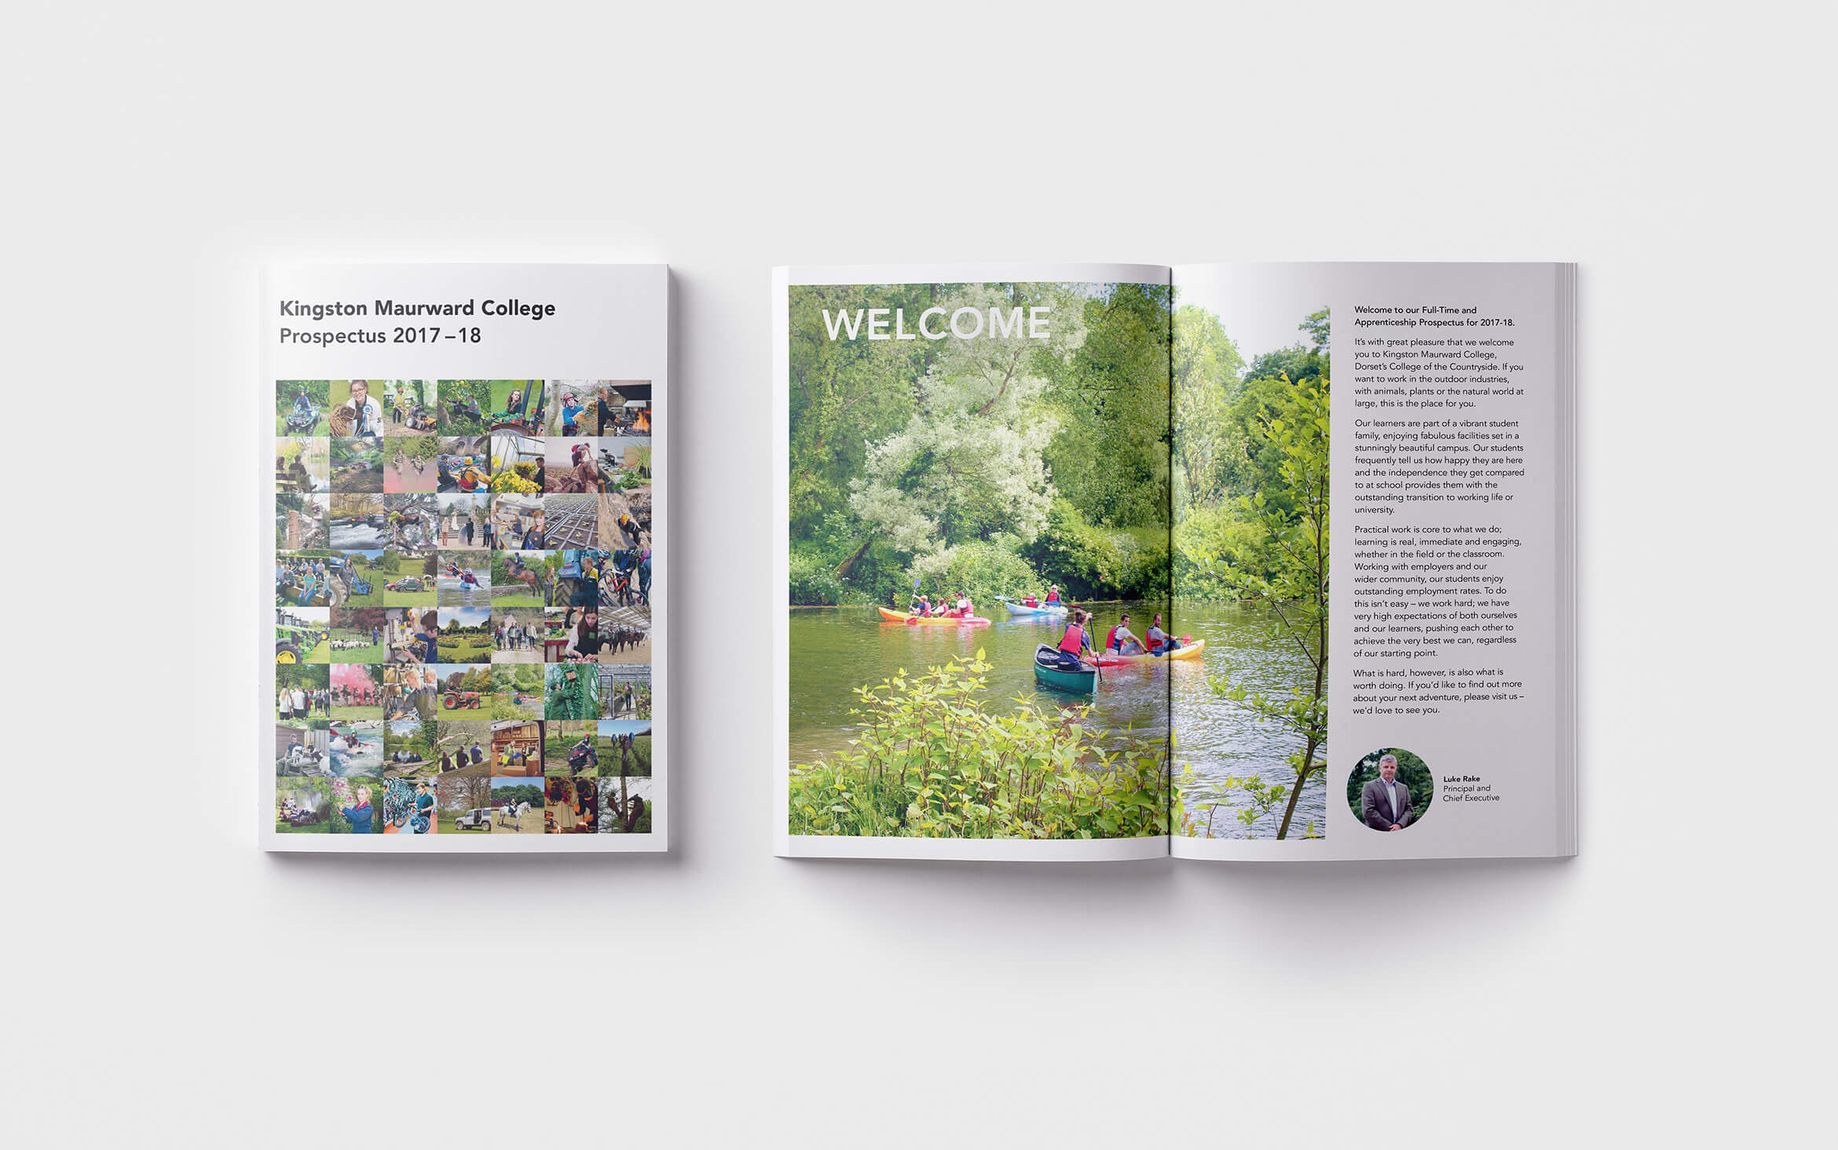
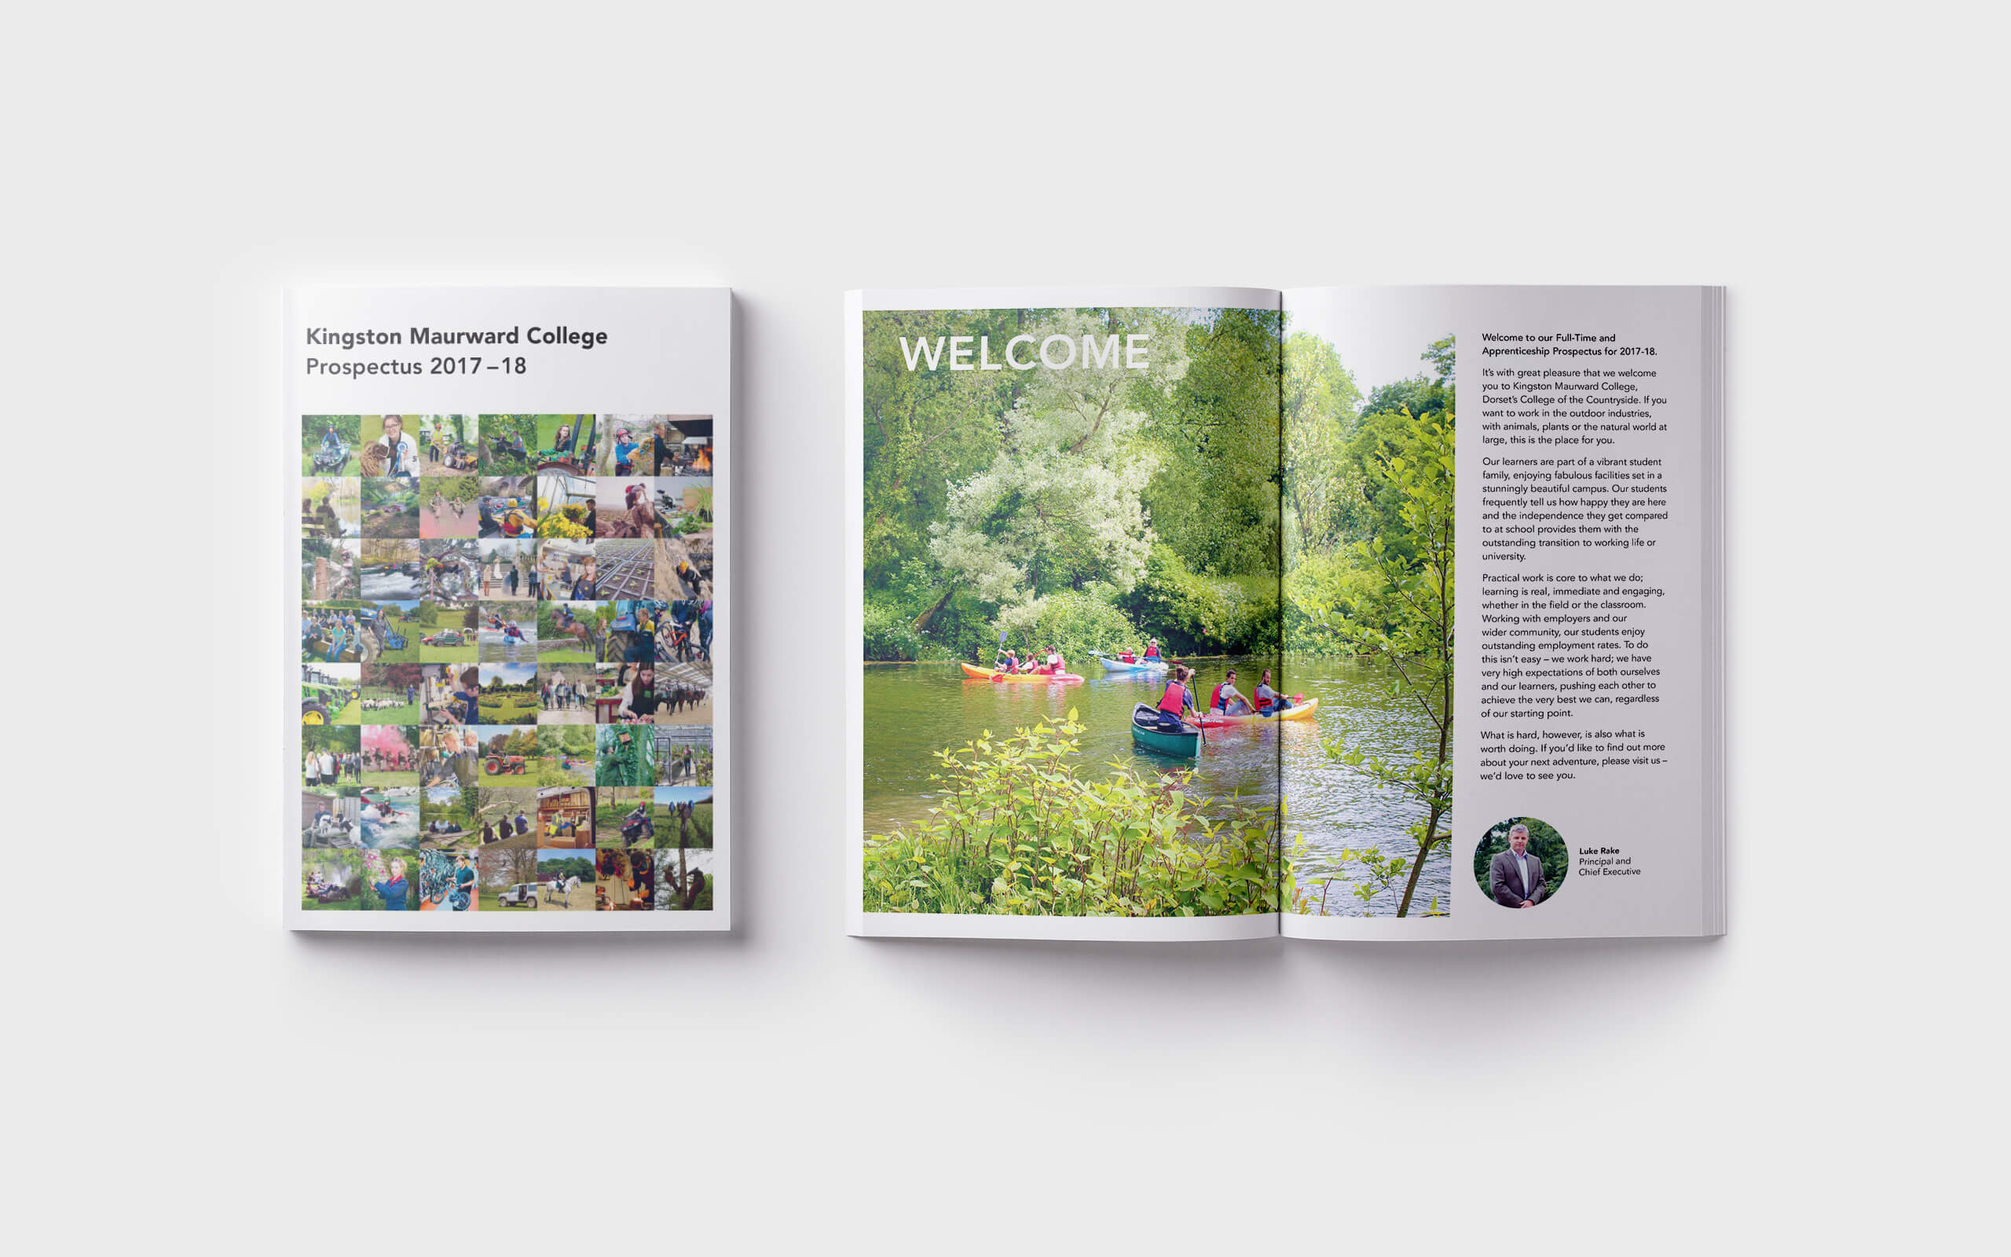
Added kmc webp images to test new size and format

Changed region(s): [[0.4368, 0.2459, 0.8423, 0.7377], [0.156, 0.3074, 0.3744, 0.7377], [0.156, 0.2459, 0.312, 0.3074]]

diff --git a/css/application.css b/css/application.css
@@ -1,1 +1,1 @@
-*:where(:not(html,iframe,canvas,img,svg,video,audio):not(svg *,symbol *)){all:unset;display:revert}*,*::before,*::after{box-sizing:border-box}a,button{cursor:revert}img{max-inline-size:100%;max-block-size:100%}table{border-collapse:collapse}input,textarea{-webkit-user-select:auto}textarea{white-space:revert}meter{-webkit-appearance:revert;-moz-appearance:revert;appearance:revert}pre{all:revert}::-moz-placeholder{color:unset}:-ms-input-placeholder{color:unset}::placeholder{color:unset}:where([hidden]){display:none}:where([contenteditable]:not([contenteditable=false])){-moz-user-modify:read-write;-webkit-user-modify:read-write;overflow-wrap:break-word;-webkit-line-break:after-white-space;-webkit-user-select:auto}:where([draggable=true]){-webkit-user-drag:element}:where(dialog:modal){all:revert}*{box-sizing:border-box;margin:0;padding:0}img{max-width:100%;display:block}body{background:var(--color-back)}html{background:var(--color-bright)}html{font-size:16px}body{font-family:"Inter",sans-serif;color:var(--color-front)}* ::-moz-selection{background:var(--color-bright)}* ::selection{background:var(--color-bright)}p{font-size:1rem;line-height:160%;font-weight:400;font-size:calc(1rem + .175vw);margin-bottom:1rem}.p0,.p0 p{font-size:.85rem;line-height:160%;font-weight:400;font-size:calc(.85rem + .25vw)}.p1,.p1 p{font-size:1.25rem;line-height:160%;font-weight:400;font-size:calc(1.25rem + .25vw)}.p2,.p2 p{font-size:1.5rem;line-height:150%;font-weight:400;font-size:calc(1.5rem + .25vw)}h1,.h1{font-size:7rem;line-height:110%;font-weight:700;font-size:calc(2rem + 6vw);letter-spacing:-0.02em;margin-bottom:2rem}@media(min-width: 40rem){h1,.h1{margin-bottom:2.5rem}}@media(min-width: 60rem){h1,.h1{margin-bottom:3rem}}@media(min-width: 90rem){h1,.h1{margin-bottom:4rem}}h2,.h2{font-size:5rem;line-height:110%;font-weight:700;font-size:calc(1.5rem + 4.5vw);letter-spacing:-0.01em;margin-bottom:1.5rem}@media(min-width: 40rem){h2,.h2{margin-bottom:2rem}}@media(min-width: 60rem){h2,.h2{margin-bottom:2.5rem}}@media(min-width: 90rem){h2,.h2{margin-bottom:3rem}}h3,.h3{font-size:3rem;line-height:110%;font-weight:700;font-size:calc(1.5rem + 2vw);letter-spacing:-0.01em;margin-bottom:3rem}.uppercase,.uppercase p{text-transform:uppercase}.bold,.bold p{font-weight:700}.semibold,.semibold p{font-weight:600}ul{margin-left:18px}a{text-decoration:none;position:relative}a::before{transform-origin:100% 50%;transform:scale3d(0, 1, 1);transition:transform .3s;position:absolute;width:100%;height:.2rem;border-radius:4px;background:var(--color-front);top:100%;left:0;pointer-events:none;content:""}a:hover:before{transform-origin:0% 50%;transform:scale3d(1, 1, 1)}a{color:var(--color-front)}a:hover{color:var(--color-front2);text-decoration:none}a:active{background-color:var(--color-bright)}.forward::after{content:" →"}.forward::after:hover{text-decoration:none}section,footer{margin-top:6rem}@media(min-width: 40rem){section,footer{margin-top:8rem}}@media(min-width: 60rem){section,footer{margin-top:10rem}}@media(min-width: 90rem){section,footer{margin-top:12rem}}.margin{margin:0 1.25rem}.nomargin{margin:0}@media(min-width: 40rem){.nomargin,.margin{margin:0 3rem}}@media(min-width: 60rem){.nomargin,.margin{margin:0 4.5rem}}@media(min-width: 90rem){.nomargin,.margin{margin:0 5rem;max-width:105rem}}.grid{display:grid;row-gap:1rem;-moz-column-gap:1rem;column-gap:1rem;grid-template-columns:repeat(2, 1fr)}.grid>*{grid-column-start:1;grid-column-end:3}.grid .mobstart0{grid-column-start:1}.grid .mobstart1{grid-column-start:2}.grid .mobend1{grid-column-end:2}.grid .mobend2{grid-column-end:3}@media(min-width: 40rem){.grid{grid-template-columns:repeat(12, 1fr);-moz-column-gap:2rem;column-gap:2rem;row-gap:2rem}.grid>*{grid-column-start:1;grid-column-end:13}.grid .start0{grid-column-start:1}.grid .start1{grid-column-start:2}.grid .start2{grid-column-start:3}.grid .start3{grid-column-start:4}.grid .start4{grid-column-start:5}.grid .start5{grid-column-start:6}.grid .start6{grid-column-start:7}.grid .start7{grid-column-start:8}.grid .start8{grid-column-start:9}.grid .start9{grid-column-start:10}.grid .start10{grid-column-start:11}.grid .start11{grid-column-start:12}.grid .end1{grid-column-end:2}.grid .end2{grid-column-end:3}.grid .end3{grid-column-end:4}.grid .end4{grid-column-end:5}.grid .end5{grid-column-end:6}.grid .end6{grid-column-end:7}.grid .end7{grid-column-end:8}.grid .end8{grid-column-end:9}.grid .end9{grid-column-end:10}.grid .end10{grid-column-end:11}.grid .end11{grid-column-end:12}.grid .end12{grid-column-end:13}}.blob{background:var(--color-bright);border-radius:100%;height:3rem;width:3rem}@media(min-width: 40rem){.blob{height:4rem;width:4rem}}@media(min-width: 60rem){.blob{height:4.5rem;width:4.5rem}}@media(min-width: 90rem){.blob{height:5rem;width:5rem}}header .blob{margin-top:6rem}@media(min-width: 40rem){header .blob{margin-top:8rem}}@media(min-width: 60rem){header .blob{margin-top:10rem}}@media(min-width: 90rem){header .blob{margin-top:12rem}}footer .blob{justify-self:end;align-self:end;margin-bottom:6rem}@media(min-width: 40rem){footer .blob{margin-bottom:8rem}}@media(min-width: 60rem){footer .blob{margin-bottom:10rem}}@media(min-width: 90rem){footer .blob{margin-bottom:12rem}}.experience article{margin-bottom:6rem}.marginbottom{margin-bottom:2rem}@media(min-width: 40rem){.marginbottom{padding-top:.5rem}}.marginbottom>*{margin-bottom:1.5rem}@media(min-width: 40rem){.marginbottom>*{margin-bottom:2rem}}.slider{display:flex;align-items:center;position:relative}.slider .slider_counter{position:absolute;top:2rem;right:2rem;padding:8px 12px;background:rgba(102,102,102,.8);color:#fff;z-index:100;border-radius:100px;font-size:.8rem;font-weight:500}@media(min-width: 40rem){.slider .slider_counter{display:none}}.slider .slider_slides{position:relative;display:flex;align-items:center;overflow-x:scroll;-ms-scroll-snap-type:x mandatory;scroll-snap-type:x mandatory;overscroll-behavior-x:contain;gap:0}@media(min-width: 40rem){.slider .slider_slides{border-radius:.5rem}}.slider .slider_slides picture{scroll-snap-align:start;flex-shrink:0;display:flex;align-items:center;justify-content:center;width:100%;height:80vh}.slider .slider_slides picture img{-o-object-fit:cover;object-fit:cover;width:100%;height:100%}.slider_nav{display:flex;align-items:center;justify-content:space-between;width:100%;position:absolute;top:50%;transform:translateY(-50%);z-index:10;pointer-events:none;visibility:hidden}@media(min-width: 40rem){.slider_nav{visibility:visible}}.slider_nav button{font-family:sans-serif;background:#000;color:#fff;padding:1rem;transition:all .2s ease-in-out;pointer-events:initial}.slider_nav button:hover{background:gray;cursor:pointer}.filter{display:flex;position:relative}.filter::before{content:"";position:absolute;width:100%;height:100%;-o-object-fit:cover;object-fit:cover;mix-blend-mode:multiply;background:var(--color-bright);opacity:.1}.reference div>div{display:flex;flex-direction:column}@media(min-width: 90rem){.reference div>div{flex-direction:row}}.reference div picture{width:5rem;height:5rem;opacity:.9;flex-shrink:0}@media(min-width: 40rem){.reference div picture{width:6rem;height:6rem}}@media(min-width: 60rem){.reference div picture{width:7rem;height:7rem;margin-right:2rem;margin-top:.5rem}}.reference div picture img,.reference div picture::before{border-radius:100px;flex-shrink:0}/*# sourceMappingURL=application.css.map */
+*:where(:not(html,iframe,canvas,img,svg,video,audio):not(svg *,symbol *)){all:unset;display:revert}*,*::before,*::after{box-sizing:border-box}a,button{cursor:revert}img{max-inline-size:100%;max-block-size:100%}table{border-collapse:collapse}input,textarea{-webkit-user-select:auto}textarea{white-space:revert}meter{-webkit-appearance:revert;-moz-appearance:revert;appearance:revert}pre{all:revert}::-moz-placeholder{color:unset}:-ms-input-placeholder{color:unset}::placeholder{color:unset}:where([hidden]){display:none}:where([contenteditable]:not([contenteditable=false])){-moz-user-modify:read-write;-webkit-user-modify:read-write;overflow-wrap:break-word;-webkit-line-break:after-white-space;-webkit-user-select:auto}:where([draggable=true]){-webkit-user-drag:element}:where(dialog:modal){all:revert}*{box-sizing:border-box;margin:0;padding:0}img{max-width:100%;display:block}body{background:var(--color-back)}html{background:var(--color-bright)}html{font-size:16px}body{font-family:"Inter",sans-serif;color:var(--color-front)}* ::-moz-selection{background:var(--color-bright)}* ::selection{background:var(--color-bright)}p{font-size:1rem;line-height:160%;font-weight:400;font-size:calc(1rem + .175vw);margin-bottom:1rem}.p0,.p0 p{font-size:.85rem;line-height:160%;font-weight:400;font-size:calc(.85rem + .25vw)}.p1,.p1 p{font-size:1.25rem;line-height:160%;font-weight:400;font-size:calc(1.25rem + .25vw)}.p2,.p2 p{font-size:1.5rem;line-height:150%;font-weight:400;font-size:calc(1.5rem + .25vw)}h1,.h1{font-size:7rem;line-height:110%;font-weight:700;font-size:calc(2rem + 6vw);letter-spacing:-0.02em;margin-bottom:2rem}@media(min-width: 40rem){h1,.h1{margin-bottom:2.5rem}}@media(min-width: 60rem){h1,.h1{margin-bottom:3rem}}@media(min-width: 90rem){h1,.h1{margin-bottom:4rem}}h2,.h2{font-size:5rem;line-height:110%;font-weight:700;font-size:calc(1.5rem + 4.5vw);letter-spacing:-0.01em;margin-bottom:1.5rem}@media(min-width: 40rem){h2,.h2{margin-bottom:2rem}}@media(min-width: 60rem){h2,.h2{margin-bottom:2.5rem}}@media(min-width: 90rem){h2,.h2{margin-bottom:3rem}}h3,.h3{font-size:3rem;line-height:110%;font-weight:700;font-size:calc(1.5rem + 2vw);letter-spacing:-0.01em;margin-bottom:3rem}.uppercase,.uppercase p{text-transform:uppercase}.bold,.bold p{font-weight:700}.semibold,.semibold p{font-weight:600}ul{margin-left:18px}a{text-decoration:none;position:relative}a::before{transform-origin:100% 50%;transform:scale3d(0, 1, 1);transition:transform .3s;position:absolute;width:100%;height:.2rem;border-radius:4px;background:var(--color-front);top:100%;left:0;pointer-events:none;content:""}a:hover:before{transform-origin:0% 50%;transform:scale3d(1, 1, 1)}a{color:var(--color-front)}a:hover{color:var(--color-front2);text-decoration:none}a:active{background-color:var(--color-bright)}.forward::after{content:" →"}.forward::after:hover{text-decoration:none}section,footer{margin-top:6rem}@media(min-width: 40rem){section,footer{margin-top:8rem}}@media(min-width: 60rem){section,footer{margin-top:10rem}}@media(min-width: 90rem){section,footer{margin-top:12rem}}.margin{margin:0 1.25rem}.nomargin{margin:0}@media(min-width: 40rem){.nomargin,.margin{margin:0 3rem}}@media(min-width: 60rem){.nomargin,.margin{margin:0 4.5rem}}@media(min-width: 90rem){.nomargin,.margin{margin:0 5rem;max-width:105rem}}.grid{display:grid;row-gap:1rem;-moz-column-gap:1rem;column-gap:1rem;grid-template-columns:repeat(2, 1fr)}.grid>*{grid-column-start:1;grid-column-end:3}.grid .mobstart0{grid-column-start:1}.grid .mobstart1{grid-column-start:2}.grid .mobend1{grid-column-end:2}.grid .mobend2{grid-column-end:3}@media(min-width: 40rem){.grid{grid-template-columns:repeat(12, 1fr);-moz-column-gap:2rem;column-gap:2rem;row-gap:2rem}.grid>*{grid-column-start:1;grid-column-end:13}.grid .start0{grid-column-start:1}.grid .start1{grid-column-start:2}.grid .start2{grid-column-start:3}.grid .start3{grid-column-start:4}.grid .start4{grid-column-start:5}.grid .start5{grid-column-start:6}.grid .start6{grid-column-start:7}.grid .start7{grid-column-start:8}.grid .start8{grid-column-start:9}.grid .start9{grid-column-start:10}.grid .start10{grid-column-start:11}.grid .start11{grid-column-start:12}.grid .end1{grid-column-end:2}.grid .end2{grid-column-end:3}.grid .end3{grid-column-end:4}.grid .end4{grid-column-end:5}.grid .end5{grid-column-end:6}.grid .end6{grid-column-end:7}.grid .end7{grid-column-end:8}.grid .end8{grid-column-end:9}.grid .end9{grid-column-end:10}.grid .end10{grid-column-end:11}.grid .end11{grid-column-end:12}.grid .end12{grid-column-end:13}}.blob{background:var(--color-bright);border-radius:100%;height:3rem;width:3rem}@media(min-width: 40rem){.blob{height:4rem;width:4rem}}@media(min-width: 60rem){.blob{height:4.5rem;width:4.5rem}}@media(min-width: 90rem){.blob{height:5rem;width:5rem}}header .blob{margin-top:6rem}@media(min-width: 40rem){header .blob{margin-top:8rem}}@media(min-width: 60rem){header .blob{margin-top:10rem}}@media(min-width: 90rem){header .blob{margin-top:12rem}}footer .blob{justify-self:end;align-self:end;margin-bottom:6rem}@media(min-width: 40rem){footer .blob{margin-bottom:8rem}}@media(min-width: 60rem){footer .blob{margin-bottom:10rem}}@media(min-width: 90rem){footer .blob{margin-bottom:12rem}}.experience article{margin-bottom:6rem}.marginbottom{margin-bottom:2rem}@media(min-width: 40rem){.marginbottom{padding-top:.5rem}}.marginbottom>*{margin-bottom:1.5rem}@media(min-width: 40rem){.marginbottom>*{margin-bottom:2rem}}.slider{display:flex;align-items:center;position:relative}.slider .slider_counter{position:absolute;top:2rem;right:2rem;padding:8px 12px;background:rgba(102,102,102,.8);color:#fff;z-index:100;border-radius:100px;font-size:.8rem;font-weight:500}@media(min-width: 40rem){.slider .slider_counter{display:none}}.slider .slider_slides{position:relative;display:flex;align-items:center;overflow-x:scroll;-ms-scroll-snap-type:x mandatory;scroll-snap-type:x mandatory;overscroll-behavior-x:contain;gap:0}@media(min-width: 40rem){.slider .slider_slides{border-radius:.5rem}}.slider .slider_slides picture{scroll-snap-align:start;flex-shrink:0;display:flex;align-items:center;justify-content:center;width:100%;height:100%}.slider .slider_slides picture img{-o-object-fit:cover;object-fit:cover;width:100%;height:100%}.slider_nav{display:flex;align-items:center;justify-content:space-between;width:100%;position:absolute;top:50%;transform:translateY(-50%);z-index:10;pointer-events:none;visibility:hidden}@media(min-width: 40rem){.slider_nav{visibility:visible}}.slider_nav button{font-family:sans-serif;background:#000;color:#fff;padding:1rem;transition:all .2s ease-in-out;pointer-events:initial}.slider_nav button:hover{background:gray;cursor:pointer}.filter{display:flex;position:relative}.filter::before{content:"";position:absolute;width:100%;height:100%;-o-object-fit:cover;object-fit:cover;mix-blend-mode:multiply;background:var(--color-bright);opacity:.1}.reference div>div{display:flex;flex-direction:column}@media(min-width: 90rem){.reference div>div{flex-direction:row}}.reference div picture{width:5rem;height:5rem;opacity:.9;flex-shrink:0}@media(min-width: 40rem){.reference div picture{width:6rem;height:6rem}}@media(min-width: 60rem){.reference div picture{width:7rem;height:7rem;margin-right:2rem;margin-top:.5rem}}.reference div picture img,.reference div picture::before{border-radius:100px;flex-shrink:0}/*# sourceMappingURL=application.css.map */

diff --git a/index.html b/index.html
@@ -199,17 +199,51 @@
             <!-- slider - kmc -->
             <div class="slider nomargin">
                <div class="slider_slides" data-slider>
-                  <picture><img src="img/kmc/01.jpg" alt="Preview of a customer journey map developed during a workshop"></picture>
-                  <picture><img src="img/kmc/02.jpg" alt="Mockup of a customer empathy map and persona"></picture>
-                  <picture><img src="img/kmc/03.jpg" alt="Preview of the font cover of the 2017 college prospectus and introduction pages"></picture>
-                  <picture><img src="img/kmc/04.jpg" alt="Mockup of the front cover of the 2017 college prospectus"></picture>
-                  <picture><img src="img/kmc/05.jpg" alt="Mockup showing the contents page and promotional content"></picture>
-                  <picture><img src="img/kmc/06.jpg" alt="Mockup showing a chapter page and course breakdown for equine"></picture>
-                  <picture><img src="img/kmc/07.jpg" alt="Mockup showing a course breakdown for arboriculture and the back cover of the 2017 prospectus"></picture>
-                  <picture><img src="img/kmc/08.jpg" alt="Packing design for stationary and mailers"></picture>
-                  <picture><img src="img/kmc/09.jpg" alt="Form design for the 2017 prospectus"></picture>
-                  <picture><img src="img/kmc/10.jpg" alt="Mockup showing complex tabular data for the short courses prospectus"></picture>
-                  <picture><img src="img/kmc/11.jpg" alt="Mockup showing the event guide for the summer show"></picture>
+                  <picture>
+                     <source type="image/webp" media="(max-width: 640px)" srcset="img/kmc/01M.webp">
+                     <source type="image/webp" media="(min-width: 641px)" srcset="img/kmc/01.webp">
+                     <img src="img/kmc/01.jpg" alt="Customer journey map developed during a team workshop">
+                  </picture>
+                  <picture>
+                     <source type="image/webp" media="(max-width: 640px)" srcset="img/kmc/02M.webp">
+                     <source type="image/webp" media="(min-width: 641px)" srcset="img/kmc/02.webp">
+                     <img src="img/kmc/02.jpg" alt="Mockup of a customer empathy map and persona">
+                  </picture>
+                  <picture>
+                     <source type="image/webp" media="(max-width: 640px)" srcset="img/kmc/03M.webp">
+                     <source type="image/webp" media="(min-width: 641px)" srcset="img/kmc/03.webp">
+                     <img src="img/kmc/03.jpg" alt="Font cover of the 2017 college prospectus and introduction pages">
+                  </picture>
+                  <picture>
+                     <source type="image/webp" media="(max-width: 640px)" srcset="img/kmc/04M.webp">
+                     <source type="image/webp" media="(min-width: 641px)" srcset="img/kmc/04.webp">
+                     <img src="img/kmc/04.jpg" alt="Front cover of the 2017 college prospectus">
+                  </picture>
+                  <picture>
+                     <source type="image/webp" media="(max-width: 640px)" srcset="img/kmc/05M.webp">
+                     <source type="image/webp" media="(min-width: 641px)" srcset="img/kmc/05.webp">
+                     <img src="img/kmc/05.jpg" alt="Contents page and promotional content">
+                  </picture>
+                  <picture>
+                     <source type="image/webp" media="(max-width: 640px)" srcset="img/kmc/06M.webp">
+                     <source type="image/webp" media="(min-width: 641px)" srcset="img/kmc/06.webp">
+                     <img src="img/kmc/06.jpg" alt="Chapter page and course breakdown">
+                  </picture>
+                  <picture>
+                     <source type="image/webp" media="(max-width: 640px)" srcset="img/kmc/07M.webp">
+                     <source type="image/webp" media="(min-width: 641px)" srcset="img/kmc/07.webp">
+                     <img src="img/kmc/07.jpg" alt="Course breakdown and back cover of the prospectus">
+                  </picture>
+                  <picture>
+                     <source type="image/webp" media="(max-width: 640px)" srcset="img/kmc/08M.webp">
+                     <source type="image/webp" media="(min-width: 641px)" srcset="img/kmc/08.webp">
+                     <img src="img/kmc/08.jpg" alt="Packing design for stationary and mailers">
+                  </picture>
+                  <picture>
+                     <source type="image/webp" media="(max-width: 640px)" srcset="img/kmc/09M.webp">
+                     <source type="image/webp" media="(min-width: 641px)" srcset="img/kmc/09.webp">
+                     <img src="img/kmc/09.jpg" alt="Form design for the prospectus">
+                  </picture>
                </div>
             </div>  
          </article> 

diff --git a/scss/layout/_slider.scss b/scss/layout/_slider.scss
@@ -40,7 +40,7 @@
          align-items: center;
          justify-content: center;
          width: 100%;
-         height: 80vh;
+         height: 100%;
 
          img {
             object-fit: cover;
